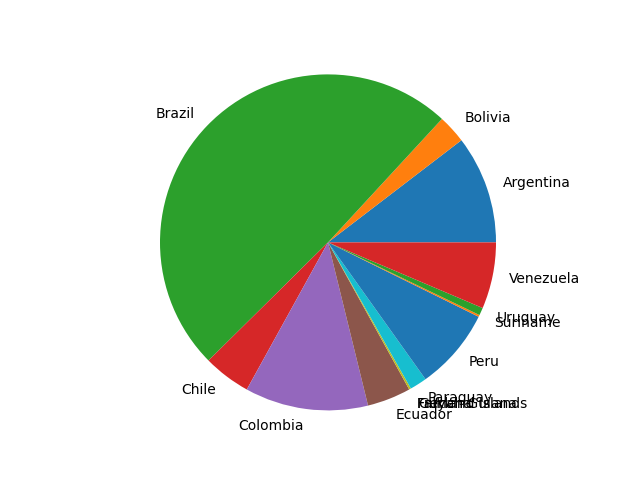
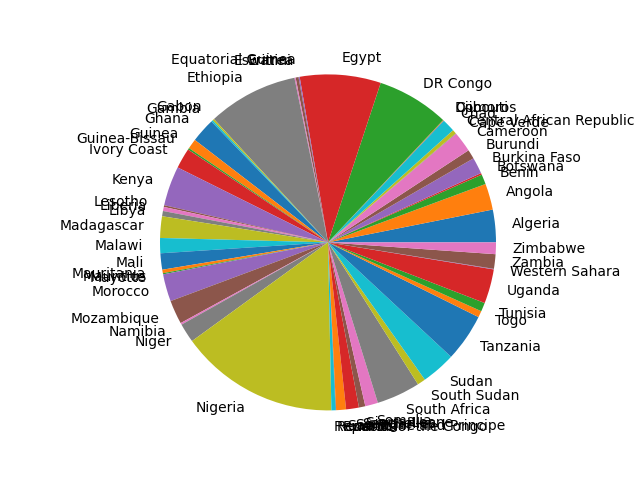
Add Pandas library

Changed region(s): [[0.0938, 0.0938, 1.0, 0.9062]]

diff --git a/app/main.py b/app/main.py
@@ -1,15 +1,23 @@
 import utils
 import read_csv
 import charts
+import pandas as pd
 
 def run():
-  data = read_csv.read_csv('data.csv')
+  '''
   data = list(filter(lambda item : item['Continent'] == 'South America',data))
-
   countries = list(map(lambda x: x['Country'], data))
   percentages = list(map(lambda x: x['World Population Percentage'], data))
+  '''
+
+  df = pd.read_csv('data.csv')
+  df = df[df['Continent'] == 'Africa']
+
+  countries = df['Country'].values
+  percentages = df['World Population Percentage'].values
   charts.generate_pie_chart(countries, percentages)
-  
+
+  data = read_csv.read_csv('data.csv')
   country = input('Type Country => ')
   print(country)
 
